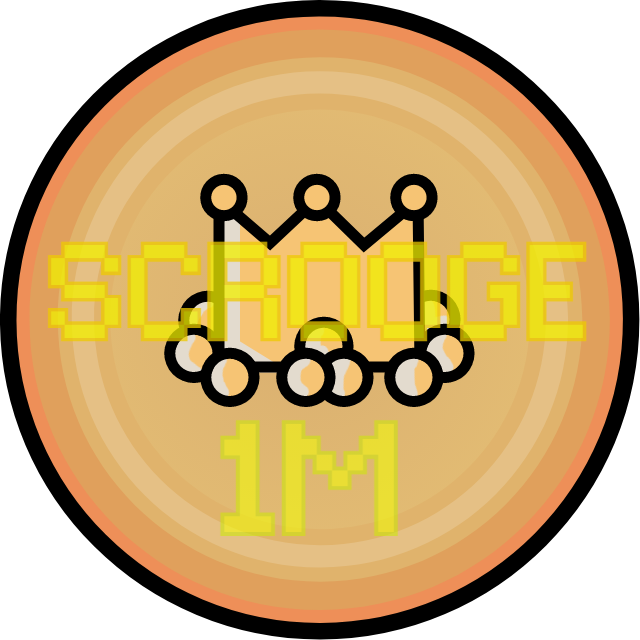
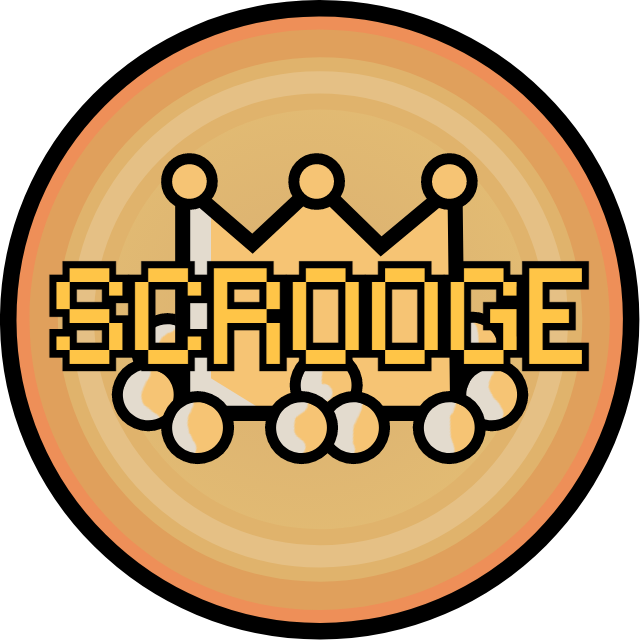
add youtube, contributor, minigame creator and developer badges. allow moderators to hand out more than one badge (event badge). fix other badge assets having text too small that it couldnt be read.

Changed region(s): [[0.0625, 0.2188, 0.9375, 0.8438]]

diff --git a/packages/junon-io/server/entities/badges/minigame.js b/packages/junon-io/server/entities/badges/minigame.js
@@ -1,0 +1,29 @@
+const BaseBadge = require("./base_badge");
+
+class Minigame extends BaseBadge {
+    getId() {
+        return 'mc'
+    }
+    getName() {
+        return 'Minigame'
+    }
+
+    isQualified(player) {
+        return false;
+    }
+
+    getImageUrl() {
+        return 'badges/minigame.png'
+    }
+
+    getDescription() {
+        return 'Get this badge by being a verified minigame creator!'
+    }
+
+    getColor() {
+        // transitional blue between neon and bright blue
+        return "1f51ff"
+    }
+}
+
+module.exports = Minigame;

diff --git a/packages/junon-io/server/entities/badges/contrib.js b/packages/junon-io/server/entities/badges/contrib.js
@@ -1,0 +1,29 @@
+const BaseBadge = require('./base_badge')
+
+class Contributor extends BaseBadge {
+    getId() {
+        return 'ct'
+    }
+    getName() {
+        return 'Contributor'
+    }
+
+    isQualified(player) {
+        return false;
+    }
+
+    getImageUrl() {
+        return 'badges/contrib.png'
+    }
+
+    getDescription() {
+        return 'Get this badge by becoming a contributor for junon.io'
+    }
+
+    getColor() {
+        //pure yellow
+        return 'ffff00'
+    }
+}
+
+module.exports = Contributor

diff --git a/packages/junon-io/server/entities/badges/dev.js b/packages/junon-io/server/entities/badges/dev.js
@@ -1,0 +1,28 @@
+const BaseBadge = require("./base_badge");
+
+class Developer extends BaseBadge {
+    getId() {
+        return 'dev'
+    }
+    getName() {
+        return 'Developer'
+    }
+
+    isQualified(player) {
+        return false;
+    }
+
+    getImageUrl() {
+        return 'badges/dev.png'
+    }
+
+    getDescription() {
+        return 'Get this badge by becoming a Developer for junon.io'
+    }
+
+    getColor() {
+        return "ff5f1f"
+    }
+}
+
+module.exports = Developer;

diff --git a/packages/junon-io/server/entities/badges/yt.js b/packages/junon-io/server/entities/badges/yt.js
@@ -8,8 +8,8 @@ class Youtube extends BaseBadge {
         return 'Youtube'
     }
 
-    async isQualified(player) {
-        return false
+    isQualified(player) {
+        return false;
     }
 
     getImageUrl() {
@@ -17,7 +17,7 @@ class Youtube extends BaseBadge {
     }
 
     getDescription() {
-        return 'Given by a moderator to recognize YouTube creators.'
+        return 'Have the youtuber role in the junon.io Discord by meeting the criteria.'
     }
 
     getColor() {

diff --git a/packages/junon-io/server/entities/badges/index.js b/packages/junon-io/server/entities/badges/index.js
@@ -5,6 +5,9 @@ Badges.OG = require('./og')
 Badges.Scrooge = require('./scrooge')
 Badges.Event = require('./event')
 Badges.Youtube = require('./yt')
+Badges.Contributor = require('./contrib')
+Badges.Developer = require('./dev')
+Badges.Minigame = require('./minigame')
 
 let idToName = new Map()
 for(let i in Badges) {

diff --git a/packages/junon-matchmaker/src/index.js b/packages/junon-matchmaker/src/index.js
@@ -361,8 +361,7 @@ class MatchmakerServer {
     let modIds = [
       "5t1H4HSXgGRzCw0isgiwxBf2cXn2", 
       "jEleFj7LAVhfv8FwLEKejEj6ESx2",
-      "UBdPAUeJBfZfUycLhl3508aAgVH2",
-      "x2QYp2Ei6TZdynUxXXUVzsKlhKl1"
+      "UBdPAUeJBfZfUycLhl3508aAgVH2"
     ]
 
     if (modIds.indexOf(uid) !== -1) {

diff --git a/packages/junon-common/moderator_giveable_badges.js b/packages/junon-common/moderator_giveable_badges.js
@@ -1,4 +1,7 @@
 module.exports = [
   {id: 'ev', name: 'Event'},
-  {id: 'yt', name: 'Youtube'}
+  {id: 'yt', name: 'Youtube'},
+  {id: 'ct', name: 'Contributor'},
+  {id: 'dev', name: 'Developer'},
+  {id: 'mc', name: 'Minigame Creator'}
 ]

diff --git a/packages/junon-io/server/entities/badges/scrooge.js b/packages/junon-io/server/entities/badges/scrooge.js
@@ -21,8 +21,8 @@ class Scrooge extends BaseBadge {
     }
 
     getColor() {
-        //golden yellow
-        return 'ffd700'
+        //bright yellow to avoid confusion with contrib badge
+        return 'ffff99'
     }
 }
 
